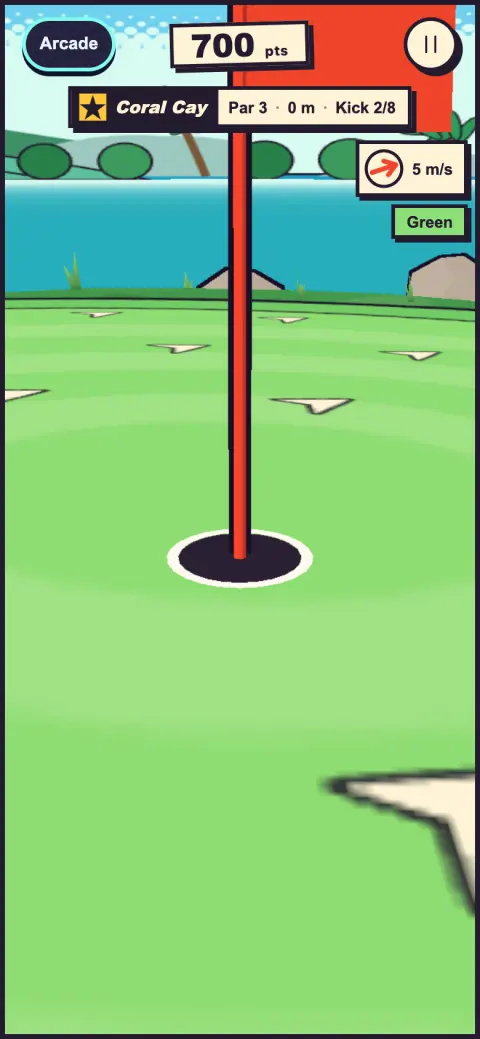
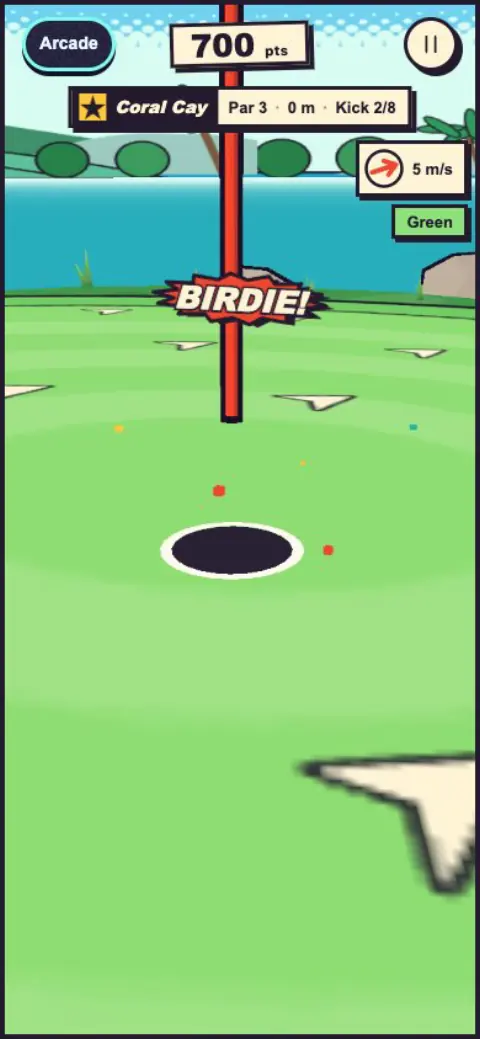
Flick It (/games/soccer-free-kick-game) and FootGolf Island (/games/soccer-golf-game): pages, watch pages, share pictures, links; every count reads fifteen
Pages from the games' direction docs (only what the games do): the searched questions, two inline stills, guides. Slugs: 'free
kick game' is what people type for curling a still ball round a wall (the page says most targets are cans, tyres and balloons);
'soccer golf' is the US name for footgolf and keeps the soccer-<kind>-game pattern. Hub: the description names free kicks and
footgolf (four or more new kinds stand alone, 149 chars), the intro and the teaches answer name them; no pick lines (word bound).
Library names both. Links: Flick It from the world-cup-shooting-game drill and the fouls-and-free-kicks rule page, FootGolf from
partner-passing-through-gates. The /games share picture reads Fifteen. The gate test now takes Flick It and FootGolf out in memory.
Caps (OWNER TO CONFIRM): public/games 2.05 -> 2.2 MB (two share pictures, 102 KB), gameplay media 21 -> 24 MB (3D clips, 22.7 MB).

diff --git a/lib/site/games.ts b/lib/site/games.ts
@@ -37,7 +37,7 @@ export const COIN_LINE='Every play is free, like every game in the arcade. Playi
 const DEVICE:Faq['a']='It runs in a web browser with nothing to install, and it is built for phones first. It also works on tablets and on computers, so a Chromebook is fine as long as the school’s filter allows futbolisland.app.';
 export type GameShot={src:string;w:number;h:number;alt:string;caption:string};
 export type GuideLink={path:string;name:string;line:string};
-export type GameId='kitrush'|'snake'|'runner'|'tennis'|'pinball'|'puzzle'|'airhockey'|'lineup'|'trophydrop'|'rollball'|'ballblaster'|'keepyuppy'|'holdtheline';
+export type GameId='kitrush'|'snake'|'runner'|'tennis'|'pinball'|'puzzle'|'airhockey'|'lineup'|'trophydrop'|'rollball'|'ballblaster'|'keepyuppy'|'holdtheline'|'flickit'|'footgolf';
 export type GamePage={id:GameId;slug:string;path:string;name:string;play:string;title:string;h1:string;description:string;lead:string;blurb:string;genre:string[];skill:string;
  og:string;ogAlt:string;shots:GameShot[];about:string[];phone:string[];desktop:string[];rules:string[];teaches:string[];guides:GuideLink[];tips:string[];harder:string[];parents:string[];faq:Faq[]};
 const page=(slug:string)=>`${GAMES_PATH}/${slug}`;
@@ -437,6 +437,68 @@ export const ALL_GAME_PAGES:readonly GamePage[]=[
    {q:'What age is Hold the Line for?',a:'Futbol Island is made for children aged 7 to 12. The first match is guided, one move at a time, and the offside line is drawn on the pitch; the teams after it attack faster, up to the Island Premier at night.'},
    {q:'Does the game follow the real offside rule?',a:'Yes. Offside is judged when the ball is played, against the second-last defender, the goalkeeper included. Level is onside, a player in his own half is onside, and a player standing offside who does not get the ball is not penalised: the game labels him NOT IN THE PLAY.'},
 ]},
+ // Nov 21 2026: Flick It, the 3D flick / free-kick trick-shot game (lib/arcade/flickit/core.ts + view.ts + save.ts, components/games/FlickItGame.tsx,
+ // docs/arcade-aaa/flickit-direction.md). Placed Nov 21 2026 on the west wall of the arcade room (arcadeCabinets), so the page is listed.
+ // Slug: "free kick game" is what children and parents type for a game where you curl a still ball round a wall; the page says plainly
+ // that most targets are cans, tyres and balloons, not goals.
+ {id:'flickit',slug:'soccer-free-kick-game',path:page('soccer-free-kick-game'),name:'Flick It',play:play('flickit'),
+  title:'Soccer Free Kick Game for Kids: Flick It, Free Online',h1:'Soccer free kick game: Flick It',
+  description:'Flick It is a free soccer free kick game for kids. Swipe to curl, lift and dip the ball round walls at cans, tyres, balloons and goals in 3D places.',
+  lead:'Flick It is a free football flick game in your browser: a free-kick and trick-shot game in 3D. Swipe up through a still ball and it flies at cans, crates, tyres, balloons, bells and sometimes a goal. Bend it round a wall, lift it over a fence and knock down as much as you can with one kick.',
+  blurb:'Swipe to curl, lift and dip the ball at targets',genre:['Arcade','Sports','Educational'],skill:'Striking a still ball and curling it',
+  og:img('flick-it-soccer-free-kick-game-og.jpg'),ogAlt:'Flick It, a soccer free kick game: on one phone a curled flick goes through the tyre in the top corner at the Training Pitch, on the other a long-range goal at the Island Stadium at night',
+  shots:gameStills('flickit',2),
+  about:['Flick It is a 3D trick-shot game drawn like a comic book. Your own island bean stands over the ball, runs up as your finger moves and strikes it, and the camera follows the ball into the scene.',
+   'There are six places on the island, each seen from its own camera: the Back Garden, Town Square, the Training Pitch, Palm Beach, a Rooftop Cage and the Island Stadium at night. The Daily Flick is one more stage a day, the same on every device.'],
+  phone:['Hold the phone upright and swipe up through the ball with one finger. Only the end of the swipe counts, so a slow drag and then a snap is a snap.','A faster swipe kicks harder, a longer swipe lifts the ball higher, and a swipe that bends left or right bends the ball the same way.'],
+  desktop:['The arrow keys aim and lift the kick, and a dotted line shows where it will go.','Hold Space for power and let go to kick. Q or E adds curl, and P or Escape pauses.'],
+  rules:['Each stage gives you six to eight flicks. Targets have points, and every extra thing one flick hits is worth more: one and a half times, then twice, up to four times.',
+   'Trick bonuses: Curled it, Round the wall, Up and over, Bank shot and Long range. Clear every target with flicks to spare and each spare flick scores too.',
+   'A stage gives up to three stars for its points; one star opens the next place. The Tour plays the six places in order, and its total goes on the island high-score board.'],
+  teaches:['Every kick is named by the part of the foot that would make it: straight through the ball is the laces, a ball that bends one way is the inside of the foot, the other way the outside.',
+   'Weight of shot matters: barrels need a firm strike and only wobble from a soft one, while a bin is scored by dropping the ball in softly from above.',
+   'Walls of mannequins, a fence and a keeper stand in front of some targets, so you learn the real free-kick choices: bend it round, lift it over and dip it, or pick another target.'],
+  guides:[{path:R+'fouls-and-free-kicks',name:'Fouls and free kicks',line:'When a free kick is given, in simple words'},{path:T+'free-kick-wall',name:'Free kick wall',line:'Why defenders stand in a line'},
+   {path:T+'set-piece',name:'Set piece',line:'Free kicks, corners and other planned kicks'},{path:T+'chip',name:'Chip',line:'Lifting the ball over a player'},
+   {path:D+'shooting',name:'Shooting drills',line:'Strike the ball well at a target'},{path:T+'weak-foot',name:'What is a weak foot?',line:'And how to make it stronger'}],
+  tips:['Pick one target before you swipe. The line at the start of each stage says what that place is about.','Look for a row: a flick through two or three targets in a line scores far more than one.','If the ball keeps flying too high, make the swipe shorter, not slower.'],
+  harder:['Each place sets its own problem, from a row of cans to a fence to lift over, and gives a little less help with the aim.','The first kicks show a dotted flight and a finger that draws the swipe; after that you are on your own.','The Island Stadium, at night, has a wall of mannequins and a keeper in front of the goal.'],
+  parents:[PARENTS_SAFE,'Skill: striking a still ball, curl and the weight of a shot. Every curled kick names the part of the foot, and the results card gives one tip from what just happened.','Session length: a stage is six to eight flicks, a couple of minutes. The game can be played with the sound off. No timers.'],
+  faq:[free('Flick It',true),{q:'Does Flick It work on a phone or a school Chromebook?',a:DEVICE},
+   {q:'How do you play Flick It?',a:'Swipe up through the ball. A faster swipe kicks harder, a longer one lifts the ball, and bending the swipe bends the ball. Hit as many targets as you can with each flick.'},
+   {q:'What age is Flick It for?',a:'Futbol Island is made for children aged 7 to 12. The Back Garden is the gentlest place, with the aim shown for the first kicks; the Rooftop Cage and the Island Stadium suit older children.'},
+   {q:'Is Flick It a real free kick game?',a:'It is about the striking part of a free kick: a still ball, a wall to get round or over, and a keeper at the stadium. Most of the targets are not goals but cans, tyres, balloons and bells, so you learn to pick a target and hit it.'},
+   {q:'How do you curl the ball in Flick It?',a:'Bend your swipe. The ball curls the way your finger turns, and the game says which part of the foot that would be: the inside of the foot or the outside.'}]},
+ // Nov 21 2026: FootGolf Island, real footgolf on nine 3D holes (lib/arcade/footgolf/core.ts + view.ts + save.ts, components/games/FootGolfGame.tsx,
+ // docs/arcade-aaa/footgolf-direction.md). Placed Nov 21 2026 on the west wall beside Flick It, so the page is listed.
+ // Slug: "soccer golf" is the US parents' name for footgolf and keeps the pattern of the other pages; "FootGolf" is in the name, title and h1.
+ {id:'footgolf',slug:'soccer-golf-game',path:page('soccer-golf-game'),name:'FootGolf Island',play:play('footgolf'),
+  title:'Soccer Golf Game for Kids: FootGolf Island, Free Online',h1:'Soccer golf game: FootGolf Island',
+  description:'FootGolf Island is a free soccer golf game for kids. Kick a football round nine 3D holes into a big cup with a long kick, chip, pass or putt.',
+  lead:'FootGolf Island is a free footgolf game in your browser: golf played with a football. Kick the ball round nine holes on the island, over hills, sand and water, into a big cup in as few kicks as you can.',
+  blurb:'Kick a football round nine holes into the cup',genre:['Arcade','Sports','Educational'],skill:'Picking a kick and its weight',
+  og:img('footgolf-island-soccer-golf-game-og.jpg'),ogAlt:'FootGolf Island, a soccer golf game: on one phone the player stands at the Lighthouse Jetty tee with the kick picker, on the other the ball drops into the cup at Coral Cay for BIRDIE!',
+  shots:gameStills('footgolf',2),
+  about:['FootGolf Island is real footgolf drawn like a comic book. Nine holes, par 34 in all, are set at places on the island, from the Lighthouse Jetty and Palm Beach to the Farm, the Summit and the Island Stadium.',
+   'The ground is 3D, with hills, hollows, banks, bunkers and water you can kick into. Each hole starts with a flyover from the flag back to the tee, and the Daily Hole is one hole a day, the same on every device.'],
+  phone:['Pick the kick with the four buttons at the bottom; the game suggests one. Then drag back from anywhere like a catapult: the pull is the power, the angle is the aim, and letting go kicks.','A five-step dial adds curl with the inside or the outside of the foot, and the turn buttons swing the view round.'],
+  desktop:['The mouse works the same way as a finger. Left and Right aim, Up and Down set the power, and Space kicks.','Keys 1 to 4 pick the kick, Q and E curl it, and P pauses.'],
+  rules:['Each hole has a par, as in golf, and you score your kicks against it: Ace, Eagle, Birdie, Par or Bogey. After eight kicks on a hole you pick up and move on.',
+   'A ball in the water or out of bounds costs one penalty kick, and you kick again from where you last kicked.','The cup is the real footgolf size, 53 cm across. A ball that is too quick lips out or hops over it; a slow one drops in. Your nine-hole total goes on the island high-score board.'],
+  teaches:['There are four kicks, as real players use: the laces to go far, a chip that lifts the ball and stops it with backspin, a pass along the ground with the inside of the foot, and a soft putt.',
+   'Weight is everything near the cup: the same pass that is perfect on stone runs too far, sand plugs the ball and long grass slows it. Arrows on each green show which way the ball rolls downhill.',
+   'Wind moves a high ball but not a low one, and some holes give a safe way round and a brave way over the water, so you learn to pick a safe target.'],
+  guides:[{path:D+'passing',name:'Passing drills',line:'Pass along the ground with the inside of the foot'},{path:D+'partner-passing-through-gates',name:'Partner passing through gates',line:'The weight and aim of a pass'},
+   {path:T+'chip',name:'Chip',line:'Lifting the ball over a player'},{path:D+'shooting',name:'Shooting drills',line:'Strike the ball well with the laces'},
+   {path:D+'at-home',name:'Drills to do at home',line:'Ball work you can do on your own'}],
+  tips:['Take the kick the game suggests until you know the course: it picks by the distance and the lie.','On the green, read the arrows first, then aim a little uphill of the cup.','A chip stops soon after it lands; a long kick runs on. Use the chip when the cup is near trouble.'],
+  harder:['The holes run from 48 metres to 140, with more hills, more water and wind in your face on the Summit.','The flight preview is shown in full on the first three holes, only partly on the next three and less on the last three.','Par for the course is 34. Matching it takes the right kick and the right weight on almost every hole.'],
+  parents:[PARENTS_SAFE,'Skill: choosing a kick and its weight. Every kick names the part of the foot, and a tip after each hole says what went right or wrong.','Session length: a hole takes a minute or two, and you can play one hole or all nine. The game can be played with the sound off. No timers.'],
+  faq:[free('FootGolf Island',true),{q:'Does FootGolf Island work on a phone or a school Chromebook?',a:DEVICE},
+   {q:'How do you play FootGolf Island?',a:'Pick a kick (long kick, chip, pass or putt), drag back from anywhere like a catapult and let go. Get the ball into the cup in as few kicks as you can.'},
+   {q:'What age is FootGolf Island for?',a:'Futbol Island is made for children aged 7 to 12. The first holes are short and show the whole flight of the ball; the later ones are longer, with less help.'},
+   {q:'What is footgolf?',a:'Footgolf is a real sport: golf played with a football on a course, kicking the ball into a large cup in as few kicks as possible. The cups are about half a metre across.'},
+   {q:'Does FootGolf Island help with real football?',a:'Yes: picking the right kick and its weight is what passing and shooting need too. Try it with a real ball: pick a target in the park and count your kicks.'}]},
 ];
 /** The ids of the games that have a machine in the arcade room. Only these pages are listed (see ALL_GAME_PAGES). */
 export const PLACED_GAME_IDS:ReadonlySet<string>=new Set<string>(arcadeCabinets.map(c=>c.id));
@@ -455,24 +517,26 @@ export const gameLink=(id:GameId):GuideLink=>{const g=gameById(id);return {path:
 const JUGGLE_LISTED=isGameListed('keepyuppy');
 /** Nov 21 2026: and the defending game only once Hold the Line is listed. */
 const DEFEND_LISTED=isGameListed('holdtheline');
-/** The hub description's kinds of game: one new kind reads 'a ... game', two or more are listed as nouns (the description stays 120-155 characters). */
-const NEW_KINDS=[JUGGLE_LISTED&&'juggling',DEFEND_LISTED&&'defending'].filter(Boolean) as string[];
+/** Nov 21 2026: the free-kick game and the footgolf game, once Flick It and FootGolf Island are listed (west wall). */
+const FLICK_LISTED=isGameListed('flickit'),GOLF_LISTED=isGameListed('footgolf');
+/** The hub description's kinds of game: one new kind reads 'a ... game', two or more are listed as nouns, four or more alone (the description stays 120-155 characters). */
+const NEW_KINDS=[JUGGLE_LISTED&&'juggling',DEFEND_LISTED&&'defending',FLICK_LISTED&&'free kicks',GOLF_LISTED&&'footgolf'].filter(Boolean) as string[];
 export const GAMES_HUB={path:GAMES_PATH,crumb:'Soccer games',title:'Free Soccer Games for Kids: Football Arcade, No Ads',h1:'Free soccer games for kids',
  // Nov 17 2026: the count is GAMES_WORD (the catalog); the kinds of game in the description are words, so a new game adds its kind here.
  /* Nov 20 2026 (new layout SEO, owner: "boost traffic to ... games"): "football" and "arcade" in the title, "football" and the devices
      (a school Chromebook among them, as the FAQ says) in the description; "No ads" stays in the title for parents. */
- description:`${GAMES_WORD_CAP} free soccer (football) games for kids to play online on a phone, tablet or Chromebook: ${NEW_KINDS.length>2?`${NEW_KINDS.join(', ')} and puzzles`:NEW_KINDS.length>1?`${NEW_KINDS.join(', ')}, pinball and puzzles`:JUGGLE_LISTED?'a juggling game, pinball, snake and puzzles':DEFEND_LISTED?'a defending game, pinball, snake and puzzles':'pinball, snake, air hockey, a runner and puzzles'}. No ads.`,
+ description:`${GAMES_WORD_CAP} free soccer (football) games for kids to play online on a phone, tablet or Chromebook: ${NEW_KINDS.length>3?`${NEW_KINDS.slice(0,-1).join(', ')} and ${NEW_KINDS[NEW_KINDS.length-1]}`:NEW_KINDS.length>2?`${NEW_KINDS.join(', ')} and puzzles`:NEW_KINDS.length>1?`${NEW_KINDS.join(', ')}, pinball and puzzles`:JUGGLE_LISTED?'a juggling game, pinball, snake and puzzles':DEFEND_LISTED?'a defending game, pinball, snake and puzzles':FLICK_LISTED?'a free kick game, pinball, snake and puzzles':GOLF_LISTED?'a footgolf game, pinball, snake and puzzles':'pinball, snake, air hockey, a runner and puzzles'}. No ads.`,
  lead:`${GAMES_WORD_CAP} arcade games from Futbol Island, each built around one football idea. They are free, run in the browser on a phone, tablet or computer, and have no ads or accounts.`,
  blurb:`${GAMES_WORD_CAP} free browser games, each teaching one football idea`,
  og:`${GAMES_DIR}/free-soccer-games-for-kids-og.jpg`,ogAlt:'Three free soccer games for kids: Kit Rush, Squad Snake and Pass Puzzles on phone screens',
- intro:[`These are the ${GAMES_WORD} machines of the arcade on Futbol Island, a football (soccer) learning game for children aged 7 to 12. Each one takes a well-known kind of game (pinball, snake, air hockey, an endless runner, a shooter, ${JUGGLE_LISTED?'a juggling rhythm game, ':''}${DEFEND_LISTED?'a defending game, ':''}a swipe game, a net game, a block puzzle, a merge game, a rolling-ball puzzle and a passing puzzle) and rebuilds it around one thing a young player needs, such as beating a tackle or the weight of a pass.`,
+ intro:[`These are the ${GAMES_WORD} machines of the arcade on Futbol Island, a football (soccer) learning game for children aged 7 to 12. Each one takes a well-known kind of game (pinball, snake, air hockey, an endless runner, a shooter, ${JUGGLE_LISTED?'a juggling rhythm game, ':''}${DEFEND_LISTED?'a defending game, ':''}${FLICK_LISTED?'a free-kick game, ':''}${GOLF_LISTED?'footgolf, ':''}a swipe game, a net game, a block puzzle, a merge game, a rolling-ball puzzle and a passing puzzle) and rebuilds it around one thing a young player needs, such as beating a tackle or the weight of a pass.`,
   'Every game opens from its page and gets harder the longer you play; a run lasts a few minutes.'],
  pick:[['The quickest to learn','Kit Rush and Squad Snake: one finger, no buttons.'],['For a child who loves to dribble','Breakaway Run.'],['For a thinker','Pass Puzzles, which has no clock on the early levels, and Line Up!, which has no clock at all.'],['For a calm few minutes','Trophy Drop: slide, drop and watch the merges.'],['For speed and action','Ball Blaster.'],['For a planner','Roll It In: you are the ball.'],
-  ['For two-button fun','Futbol Pinball.'],['For one finger against the computer','Air Futbol, the air hockey table.'],['For a player who wants a challenge','Futbol Tennis, with the most moves to learn.'],...(JUGGLE_LISTED?[['For a child who loves music','Keepy-Uppy Beat.']]:[]),...(DEFEND_LISTED?[['For a defender','Hold the Line.']]:[])] as [string,string][],
+  ['For two-button fun','Futbol Pinball.'],['For one finger against the computer','Air Futbol, the air hockey table.'],['For a player who wants a challenge','Futbol Tennis, with the most moves to learn.'],...(JUGGLE_LISTED?[['For a child who loves music','Keepy-Uppy Beat.']]:[]),...(DEFEND_LISTED?[['For a defender','Hold the Line.']]:[])] as [string,string][],/* Nov 21 2026: no pick line for the west wall games: the hub is at its word bound (tests/seo-games.cjs) */
  faq:[{q:'Are these soccer games really free?',a:`Yes. There is nothing to buy, no advert and no account. All ${GAMES_WORD} games are free to play, every time; island coins are earned by playing and never sold.`},
   {q:'Can kids play these soccer games at school?',a:'Yes: they run in a web browser on a Chromebook, tablet or phone, if the school’s filter allows futbolisland.app.'},
   {q:'What ages are the games for?',a:'Children aged 7 to 12. Kit Rush, Squad Snake, Futbol Pinball and Trophy Drop are the easiest; Futbol Tennis, Ball Blaster and the later Pass Puzzles suit older children.'},
-  {q:'Do the games teach real soccer?',a:`Each one is built around one idea from the real game: recognising your team, positions and formations, beating a tackle, first touch, rebounds, passing lanes, keeping a line, small touches, the weight of a pass and picking a target to shoot at${JUGGLE_LISTED?', juggling to a beat':''}${DEFEND_LISTED?', the offside line':''}.`},
+  {q:'Do the games teach real soccer?',a:`Each one is built around one idea from the real game: recognising your team, positions and formations, beating a tackle, first touch, rebounds, passing lanes, keeping a line, small touches, the weight of a pass and picking a target to shoot at${JUGGLE_LISTED?', juggling to a beat':''}${DEFEND_LISTED?', the offside line':''}${FLICK_LISTED?', curling a free kick':''}${GOLF_LISTED?', the weight of a kick':''}.`},
   {q:'Do I need an account or an app?',a:'No. Nothing is downloaded and there is no sign-up. Progress stays on the device.'}] as Faq[]};
 export const gameCrumbs=(...tail:{name:string;path:string}[])=>[{name:'Home',path:'/'},{name:GAMES_HUB.crumb,path:GAMES_HUB.path},...tail];
 /** For the sitemap, llms.txt and the image sitemap: the hub first, then one page per game. */

diff --git a/lib/site/gameMedia.ts b/lib/site/gameMedia.ts
@@ -22,7 +22,7 @@ export const CLIPS_DIR='/games/clips',SHOTS_DIR='/games/shots';
 /** The day these clips were first published (VideoObject.uploadDate, video sitemap publication_date). The four clips added on
  *  Nov 17 2026 carry their own first commit time (git log --diff-filter=A, checked by tests/seo-video.cjs). */
 export const GAME_CLIPS_UPLOADED='2026-11-16T12:00:00-08:00';
-const LATER_UPLOADS:Record<string,string>={lineup:'2026-11-17T16:46:54-08:00',trophydrop:'2026-11-17T16:46:54-08:00',ballblaster:'2026-11-17T20:48:49-08:00',rollball:'2026-11-17T21:00:10-08:00',matchmix:'2026-11-20T18:58:48-08:00',keepyuppy:'2026-11-21T12:00:00-08:00',holdtheline:'2026-11-21T18:00:00-08:00'};
+const LATER_UPLOADS:Record<string,string>={lineup:'2026-11-17T16:46:54-08:00',trophydrop:'2026-11-17T16:46:54-08:00',ballblaster:'2026-11-17T20:48:49-08:00',rollball:'2026-11-17T21:00:10-08:00',matchmix:'2026-11-20T18:58:48-08:00',keepyuppy:'2026-11-21T12:00:00-08:00',holdtheline:'2026-11-21T18:00:00-08:00',flickit:'2026-11-21T14:57:09-08:00',footgolf:'2026-11-21T14:57:09-08:00'};
 export type GameClip={key:string;name:string;caption:string;alt:string;page:string;w:number;h:number;seconds:number;mp4:string;webm:string;mp4s?:string;poster:string;pw:number;ph:number;uploaded:string};
 type ClipDef={key:string;name:string;caption:string;alt:string;page:string};
 const clip=(d:ClipDef):GameClip|null=>{const f=MEDIA.clips[d.key];if(!f)return null;
@@ -49,10 +49,14 @@ const GAME_CLIP_DEFS:Record<GameId,Omit<ClipDef,'key'|'page'>>={
  keepyuppy:{name:'Keepy-Uppy Beat gameplay: juggling a football to the beat',alt:'Keepy-Uppy Beat gameplay on a phone: balls fall down four coloured lanes into rings above the left foot, thigh, head and right foot pads, and the juggler keeps the ball up with SWEET! touches on the beat',caption:'Keepy-Uppy Beat: tap each pad as its ball lands, on the beat.'},
  // Nov 21 2026: Hold the Line (unlisted until it has a machine in the room: the clip is on its own page only, with no watch page).
  holdtheline:{name:'Hold the Line gameplay: stepping up to catch a runner offside',alt:'Hold the Line gameplay on a phone against Coconut Rovers: the back line holds, the passer winds up, the back line steps up together and the runner is left past the red offside line as the assistant referee raises his flag: OFFSIDE! +150',caption:'Hold the Line: step up together as the passer’s leg goes back, and the runner is offside.'},
+ // Nov 21 2026: Flick It and FootGolf Island, placed on the west wall of the arcade room.
+ flickit:{name:'Flick It gameplay: curling a football round the wall',alt:'Flick It gameplay on a phone at the Training Pitch: the ball is flicked with the inside of the foot, bends past the yellow mannequin wall and goes through the tyre for TOP CORNER! and THREADED!, then knocks a can off a crate for CLANG!',caption:'Flick It: bend it round the wall.'},
+ footgolf:{name:'FootGolf Island gameplay: a long kick and a putt for a birdie',alt:'FootGolf Island gameplay on a phone at Coral Cay: the player kicks with the laces over the water towards the island green, then a putt with the inside of the foot rolls over the green into the cup for BIRDIE!',caption:'FootGolf Island: a long kick, then a putt.'},
 };
 const gamePaths:Record<GameId,string>={kitrush:'/games/soccer-swipe-game',snake:'/games/soccer-snake-game',runner:'/games/soccer-runner-game',tennis:'/games/soccer-tennis-game',
  pinball:'/games/soccer-pinball',puzzle:'/games/soccer-passing-puzzle-game',airhockey:'/games/air-hockey-soccer-game',lineup:'/games/soccer-block-puzzle-game',
- trophydrop:'/games/soccer-merge-game',rollball:'/games/soccer-ball-rolling-puzzle-game',ballblaster:'/games/soccer-shooting-game',keepyuppy:'/games/soccer-juggling-game',holdtheline:'/games/soccer-defending-game'};
+ trophydrop:'/games/soccer-merge-game',rollball:'/games/soccer-ball-rolling-puzzle-game',ballblaster:'/games/soccer-shooting-game',keepyuppy:'/games/soccer-juggling-game',holdtheline:'/games/soccer-defending-game',
+ flickit:'/games/soccer-free-kick-game',footgolf:'/games/soccer-golf-game'};
 export const gameClip=(id:GameId)=>clip({key:id,page:gamePaths[id],...GAME_CLIP_DEFS[id]});
 /** New stills of each game (beyond the two hand-made ones in lib/site/games.ts), with their own alt text. */
 const STILL_WORDS:Record<GameId,string[]>={
@@ -69,6 +73,8 @@ const STILL_WORDS:Record<GameId,string[]>={
  ballblaster:['Ball Blaster: SUPER SHOT! The bean\'s fire ball breaks three robots for a +300 trick shot','Ball Blaster boss wave under the floodlights: the Mega Mannequin walks up behind cones, barrels and a glass board as a ball hits for SMASH! +80','Ball Blaster target practice after the boss: a ball hits a target for DING! +75 with five targets left','Ball Blaster late in wave 1: big wind-up robots march close to the goal while the aim ring waits between them'],
  keepyuppy:['Keepy-Uppy Beat, Park Kickabout: the ball lands in the ring above the left-foot pad, the pad is pressed and the juggler’s left foot plays it up for SWEET!','Keepy-Uppy Beat, Cup Final Carnival: the juggler lands a Neck Stall for NECK STALL! +225 in the weak-foot part, with balls falling towards the left-foot and head pads','Keepy-Uppy Beat, Cup Final Carnival at night: AROUND THE WORLD! +240 and 62 in a row, under the stadium lights and bunting','Keepy-Uppy Beat’s Trick Book: cards for Thigh-Foot-Thigh, Seal Taps, the Neck Stall, Around the World and the Heel Flick, each with how to do it, a coaching line and five landings to fill it'],
  holdtheline:['Hold the Line, Coast League against Coconut Rovers: the red offside line is drawn across the pitch, the runner past it is labelled OFFSIDE, a teammate standing past it is NOT IN THE PLAY, the assistant referee’s flag is up: OFFSIDE! +150','Hold the Line, Island Premier at night against Captain Coral’s XI: defender 2 has pressed the passer and won the ball, with the gap he left in the line marked: TACKLE! +150, Pressed at the right moment','Hold the Line, Island Premier at night against Palm Wing FC: the long switch of play flies to the far winger and the back line has slid across to meet it','Hold the Line’s season map for the Island Premier: ten teams, each with its style and its lesson (Step up together, Slide to the ball side, Drop for the long ball), stars for each match won and the teams not met yet'],
+ flickit:['Flick It, Training Pitch: a curled flick went through the tyre in the top corner for TOP CORNER! and DOUBLE! +750, with the robot keeper beside it','Flick It, Island Stadium at night: a long flick past the mannequin wall scores LONG RANGE! +100 and GOAL +300 in front of the crowd','Flick It, Rooftop Cage: the player’s bean follows through after flicking the ball up and over the wire fence, the ball’s path drawn in red dots','Flick It, Back Garden: the ball on the grass, cans stacked on a crate behind the fence, and the lesson line: pick one target, swipe straight up through the ball, that is your laces'],
+ footgolf:['FootGolf Island, hole 1 Lighthouse Jetty: the player stands at the tee, par 3, 53 metres, with the kick picker (long kick, chip, pass, putt) and the tee tip: laces to get there, inside of the foot to finish','FootGolf Island, hole 7 Coral Cay: a long kick with the laces flies over the water towards the island green and its red flag, the wind sock showing 5 metres a second','FootGolf Island, a putt on the green: white arrows on the grass show which way the ball rolls downhill, and the tip says read the arrows','FootGolf Island, Coral Cay: BIRDIE! over the cup: the ball has dropped in with the second kick on a par 3'],
 };
 const STILL_CAPS:Record<GameId,string[]>={
  kitrush:['Twelve clean swipes make a Clean Run.','Read the whole wave: leave the other team’s boot.','The sky darkens as the run goes on.','Your kit can switch mid-run.'],
@@ -84,6 +90,8 @@ const STILL_CAPS:Record<GameId,string[]>={
  ballblaster:['Fill the Super bar, hold until it is red, then kick.','Boss wave: keep hitting the Mega Mannequin.','Target practice: pick a target and strike through the ball.','Stop them before they reach your goal.'],
  keepyuppy:['Tap the pad as the ball lands in its ring.','A Neck Stall: hold the head pad until the bar is full.','The Cup Final: every trick, both feet, 140 beats a minute.','The Trick Book: how each real trick is done.'],
  holdtheline:['Past the line when the ball is played: offside.','Press a passer who waits and win the ball.','A switch of play: slide across to the ball side.','Ten teams, ten problems, then the Island Premier.'],
+ flickit:['Round the wall, through the tyre.','A long-range goal at night.','Up and over the fence.','Pick one target first.'],
+ footgolf:['Pick one of four kicks.','Carry the water to the green.','The arrows point downhill.','In the cup: a birdie.'],
 };
 export function gameStills(id:GameId,max=4):GameShot[]{
  return (MEDIA.shots[id]??[]).slice(0,max).map((s,i)=>({src:`${SHOTS_DIR}/${s.file}`,w:s.w,h:s.h,alt:STILL_WORDS[id][i]??`${GAME_CLIP_DEFS[id].name}, picture ${i+1}`,caption:STILL_CAPS[id][i]??''}));

diff --git a/lib/site/videos.ts b/lib/site/videos.ts
@@ -42,6 +42,8 @@ const GAME_DEFS:Record<GameId,Omit<Def,'key'|'group'>>={
  ballblaster:{slug:'ball-blaster-gameplay',title:'Ball Blaster gameplay: kicking at robots',text:['A football flies up the pitch and breaks a wind-up robot in Ball Blaster.','A POW! burst shows the hit.','You aim each kick and break the robots before they reach your goal.']},
  holdtheline:{slug:'hold-the-line-gameplay',title:'Hold the Line gameplay: the offside trap',text:['Your back line moves as one: drag it up, down or across.','When the passer pulls his leg back, the line steps up together and the runner is left offside.','A heavy touch is pressed and won, and a ball switched wide is met by the line sliding across.']},
  keepyuppy:{slug:'keepy-uppy-beat-gameplay',title:'Keepy-Uppy Beat gameplay: juggling to music',text:['Balls fall down four lanes towards the pads: left foot, thigh, head and right foot.','Each tap lands on the beat of the music and the juggler keeps the ball up.','A Sweet touch is right on the beat; tricks come with their own picture on the ball.']},
+ flickit:{slug:'flick-it-gameplay',title:'Flick It gameplay: bending it round the wall',text:['At the Training Pitch in Flick It, a swipe up through the ball kicks it with the inside of the foot.','The ball bends past a wall of yellow mannequins and goes through a tyre for TOP CORNER! and THREADED!.','The next flick knocks a can off a crate: every target you hit in one flick adds to the score.']},
+ footgolf:{slug:'footgolf-island-gameplay',title:'FootGolf Island gameplay: a putt for a birdie',text:['On hole 7 of FootGolf Island, Coral Cay, a long kick with the laces flies over the water to the island green.','The next kick is a putt with the inside of the foot, along the ground.','It rolls over the green and drops into the cup: two kicks on a par 3 is a birdie.']},
 };
 const HERO_DEF:Omit<Def,'key'|'group'>={slug:'three-arcade-games-on-a-phone',title:'Three soccer arcade games played on a phone',text:['Three phone screens play side by side: Kit Rush, Squad Snake and Air Futbol.','In the first, kit flies up at sunset and a swipe sets off a Slow-mo burst; in the second, a line of players winds across the pitch and calls a Midfield Four; in the third, a save flashes up against the bean opponent on a small pitch.','All three are real play recorded on a phone.']};
 const ISLAND_DEFS:Record<string,Omit<Def,'key'|'group'>>={

diff --git a/lib/site/rules.ts b/lib/site/rules.ts
@@ -2,7 +2,7 @@ import {lessonById,type SiteLesson} from './lessons';
 import {exhibitById,exhibitPath} from './exhibits';
 import type {Faq} from './safety';
 import {FAMILY_CHECKED,longDate} from './checked';
-import {gameLink} from './games';
+import {gameLink,isGameListed} from './games';
 import {scene,type RawScene,type Scene} from './scenes';
 /**
  * The RULES cluster (SEO cluster 2, Nov 10 2026): /learn/soccer-rules and one page per rule under it. All page words live here
@@ -225,7 +225,7 @@ export const RULES:readonly Rule[]=([
    {q:'How far away must the wall be?',a:'At least 9.15 metres, which is 10 yards, from the ball. When the wall has three or more defenders, attackers must stay at least 1 metre (about 1 yard) away from it. In futsal the distance is 5 metres.'},
    {q:'How does the referee show an indirect free kick?',a:'The referee raises one arm straight up and keeps it there until the kick has been taken and the ball touches another player or goes out of play.'},
    {q:'Is a slide tackle a foul?',a:'Not by itself in the Laws of the Game. It is a foul if it is careless, reckless or uses too much force. Youth leagues can add their own rule about slide tackles, so check yours.'}],
-  lessonIds:['exp11_shortfreekick','expf_freekickbalance','trn_11_recover','def_7_goalside'],cta:'exp11_shortfreekick',exhibitIds:['free-kick-wall'],links:[{path:'/learn/soccer-terms/free-kick-wall',name:'Free kick wall in soccer',line:'Where the wall stands, and the 1-yard gap for attackers'},L.cb,L.dm,L.gk]},
+  lessonIds:['exp11_shortfreekick','expf_freekickbalance','trn_11_recover','def_7_goalside'],cta:'exp11_shortfreekick',exhibitIds:['free-kick-wall'],links:[{path:'/learn/soccer-terms/free-kick-wall',name:'Free kick wall in soccer',line:'Where the wall stands, and the 1-yard gap for attackers'},L.cb,L.dm,L.gk,...(isGameListed('flickit')?[gameLink('flickit')]:[])/* Nov 21 2026: the free-kick game */]},
  // ---- penalty kick -------------------------------------------------------------------------------------------------------
  {slug:'penalty-kick',name:'Penalty kick',law:'Law 14',lawPage:'the-penalty-kick/',
   title:'Penalty Kick Rules in Soccer: Diagram for Kids',h1:'Soccer penalty kick rules for kids',

diff --git a/lib/site/drillsC.ts b/lib/site/drillsC.ts
@@ -43,7 +43,7 @@ export const DRILLS_C:RawDrill[]=[
   harder:'A goal counts only if both partners touched the ball. Or one touch to finish inside the area near the goal.',
   mistakes:['Using the sit-out rules with young players, which leaves the best finishers watching and, in the knockout version, the weakest pairs watching longest.','Both partners chasing the ball. One goes to the ball, the other finds space near the goal.','Waiting for the perfect shot. In a crowd the first clear look is the one to take.'],
   game:'A crowded goal area after a corner or a blocked shot looks just like this game. Our lesson on reacting to a shot is about that moment: read the rebound and arrive while others are watching.',
-  lessons:['next7_shotreaction','learnf_farpost','learn11_cutback'],links:[G.st,G.gk,G.cutback,G.ballBlaster],related:['follow-the-shot','two-v-one-to-goal','dribble-and-shoot','numbers-game'],
+  lessons:['next7_shotreaction','learnf_farpost','learn11_cutback'],links:[G.st,G.gk,G.cutback,G.ballBlaster,...G.flickIt],related:['follow-the-shot','two-v-one-to-goal','dribble-and-shoot','numbers-game'],
   faq:[{q:'How do you play World Cup in soccer?',a:'Pairs each choose a country. All pairs attack one goal with one ball. In the classic rules a pair that scores is through to the next round and the last pair is knocked out.'},
    {q:'How do I stop players sitting out?',a:'Keep every pair in and count goals over a timed round. A pair that scores runs around the goal and rejoins, which gives the others a short advantage.'},
    {q:'Who plays goalkeeper?',a:'From U10, players take turns for a round each, or a coach goes in. For U8, play with no goalkeeper and a small goal, because their games have no goalkeepers.'}]},

diff --git a/lib/site/learnFeatures.ts b/lib/site/learnFeatures.ts
@@ -16,7 +16,9 @@ import {ARCADE_GAME_COUNT,arcadeCabinets} from '../arcade/arcadeCatalog';
 const KEEPY_LISTED=arcadeCabinets.some(c=>(c.id as string)==='keepyuppy');
 /** Nov 21 2026: and Hold the Line, the defending game. The machines after Roll It In are joined as a list ("A, B and C"). */
 const HOLD_LISTED=arcadeCabinets.some(c=>(c.id as string)==='holdtheline');
-const LAST_MACHINES=['Ball Blaster (kick footballs at toy robots before they reach your goal)',...(KEEPY_LISTED?['Keepy-Uppy Beat (juggle the ball to the beat with feet, thigh and head)']:[]),...(HOLD_LISTED?['Hold the Line (move your back line as one and catch the runner offside)']:[])];/* Nov 17 2026: the arcade count follows the catalog */
+const LISTED=(id:string)=>arcadeCabinets.some(c=>(c.id as string)===id);
+const LAST_MACHINES=['Ball Blaster (kick footballs at toy robots before they reach your goal)',...(KEEPY_LISTED?['Keepy-Uppy Beat (juggle the ball to the beat with feet, thigh and head)']:[]),...(HOLD_LISTED?['Hold the Line (move your back line as one and catch the runner offside)']:[]),
+ /* Nov 21 2026: the west wall games */...(LISTED('flickit')?['Flick It (swipe to curl, lift and dip the ball at cans, tyres, balloons and goals)']:[]),...(LISTED('footgolf')?['FootGolf Island (kick a football round nine holes into the cup)']:[])];/* Nov 17 2026: the arcade count follows the catalog */
 import {NumberWord} from '../numberWord';
 /** [PUBLIC-WORLD] Nov 11 2026: with the public-island build flag on, the few lines below that would become untrue switch (the `PUB?new:old`
  *  ternaries); flag off = today's words byte for byte (tests/mp-public-copy.cjs). Old -> new: docs/multiplayer/PUBLIC-COPY-REVIEW.md. */

diff --git a/lib/site/drillsB.ts b/lib/site/drillsB.ts
@@ -123,7 +123,7 @@ export const DRILLS_B:RawDrill[]=[
   mistakes:['Toe-poke passes. Turn the foot out and use the inside, like a hockey stick.','Standing still after the pass and waiting for the ball to come back.','Partners too far apart, so every pass misses. Five yards is plenty for young players.'],
   game:'A gate is the space between two defenders, and the partner on the far side is a teammate who moved into view. Our support lesson says it this way: move so the defender is no longer between you and the ball.',
   home:'A parent and a child, one gate made of two shoes. Count ten passes through it without a miss, then take a step back each.',
-  lessons:['prn_7_support','prn_7_spread','learn7_receive'],links:[G.cm,G.firstTouch,G.rollBall],related:['gates-dribbling','triangle-passing','give-and-go','wall-passing'],
+  lessons:['prn_7_support','prn_7_spread','learn7_receive'],links:[G.cm,G.firstTouch,G.rollBall,...G.footGolf],related:['gates-dribbling','triangle-passing','give-and-go','wall-passing'],
   faq:[{q:'What is the best passing drill for beginners?',a:'This one. It is a game with a score, every pair is busy the whole time, and it rewards the two habits that matter: an accurate pass and moving afterward.'},
    {q:'How do I teach the inside-of-the-foot pass?',a:'Standing foot beside the ball and pointing at the target, kicking foot turned out with the ankle locked, and strike through the middle of the ball.'},
    {q:'Can U6 players do passing drills?',a:'In short spells. Five-year-olds mostly want their own ball, which is normal for the age, so keep this to a few minutes and return to dribbling games.'}]},

diff --git a/lib/site/drillLinks.ts b/lib/site/drillLinks.ts
@@ -43,6 +43,8 @@ export const G={
  /* Nov 17 2026: the rolling-ball puzzle. */ rollBall:gameLink('rollball'), /* Nov 17 2026: the shooting game. */ ballBlaster:gameLink('ballblaster'),
  /* Nov 21 2026: the juggling game, spread into the thigh control and ball-mastery drills' links; empty until Keepy-Uppy Beat is placed. */ keepyUppy:(isGameListed('keepyuppy')?[gameLink('keepyuppy')]:[]) as readonly ReturnType<typeof gameLink>[],
  /* Nov 21 2026: the defending game, spread into the pressure-and-cover and recover-goal-side drills' links; empty until Hold the Line is placed. */ holdTheLine:(isGameListed('holdtheline')?[gameLink('holdtheline')]:[]) as readonly ReturnType<typeof gameLink>[],
+ /* Nov 21 2026: the free-kick game in the target-shooting drill, the footgolf game in the weight-of-pass drill; empty until placed. */ flickIt:(isGameListed('flickit')?[gameLink('flickit')]:[]) as readonly ReturnType<typeof gameLink>[],
+ footGolf:(isGameListed('footgolf')?[gameLink('footgolf')]:[]) as readonly ReturnType<typeof gameLink>[],
  ages:{path:'/learn/soccer-age-groups',name:'Soccer age groups explained',line:'What U6, U8, U10 and U12 mean'},
  /* seo-nov18: the two pages stuck near position 19 get links from the age guides, plans and tool pages. */
  calc:{path:'/tools/soccer-playing-time-calculator',name:'Soccer playing time calculator',line:'Plan fair playing time, with equal minutes for every player'},

diff --git a/docs/seo/build-game-images.py b/docs/seo/build-game-images.py
@@ -35,6 +35,9 @@ GAMES = [
 WALL = [
  ('keepy-uppy-beat-soccer-juggling-game', ['keepyuppy-park', 'keepyuppy-cup'], [], 'Keepy-Uppy Beat', 'Free soccer juggling game', 56),
  ('hold-the-line-soccer-defending-game', ['holdtheline-offside', 'holdtheline-night'], [], 'Hold the Line', 'Free soccer defending game', 50),
+ # Nov 21 2026: Flick It and FootGolf Island on the west wall (fifteen with Pop-Up Shot in place of Hold the Line).
+ ('flick-it-soccer-free-kick-game', ['flickit-pitch', 'flickit-stadium'], [], 'Flick It', 'Free soccer free kick game', 50),
+ ('footgolf-island-soccer-golf-game', ['footgolf-tee', 'footgolf-birdie'], [], 'FootGolf Island', 'Free soccer golf game', 50),
 ]
 # One entry per arcade cabinet, so the hub picture's count follows the list (Nov 18 2026: eleven after the arcade swap).
 WORDS = ['zero', 'one', 'two', 'three', 'four', 'five', 'six', 'seven', 'eight', 'nine', 'ten', 'eleven', 'twelve', 'thirteen', 'fourteen', 'fifteen']
